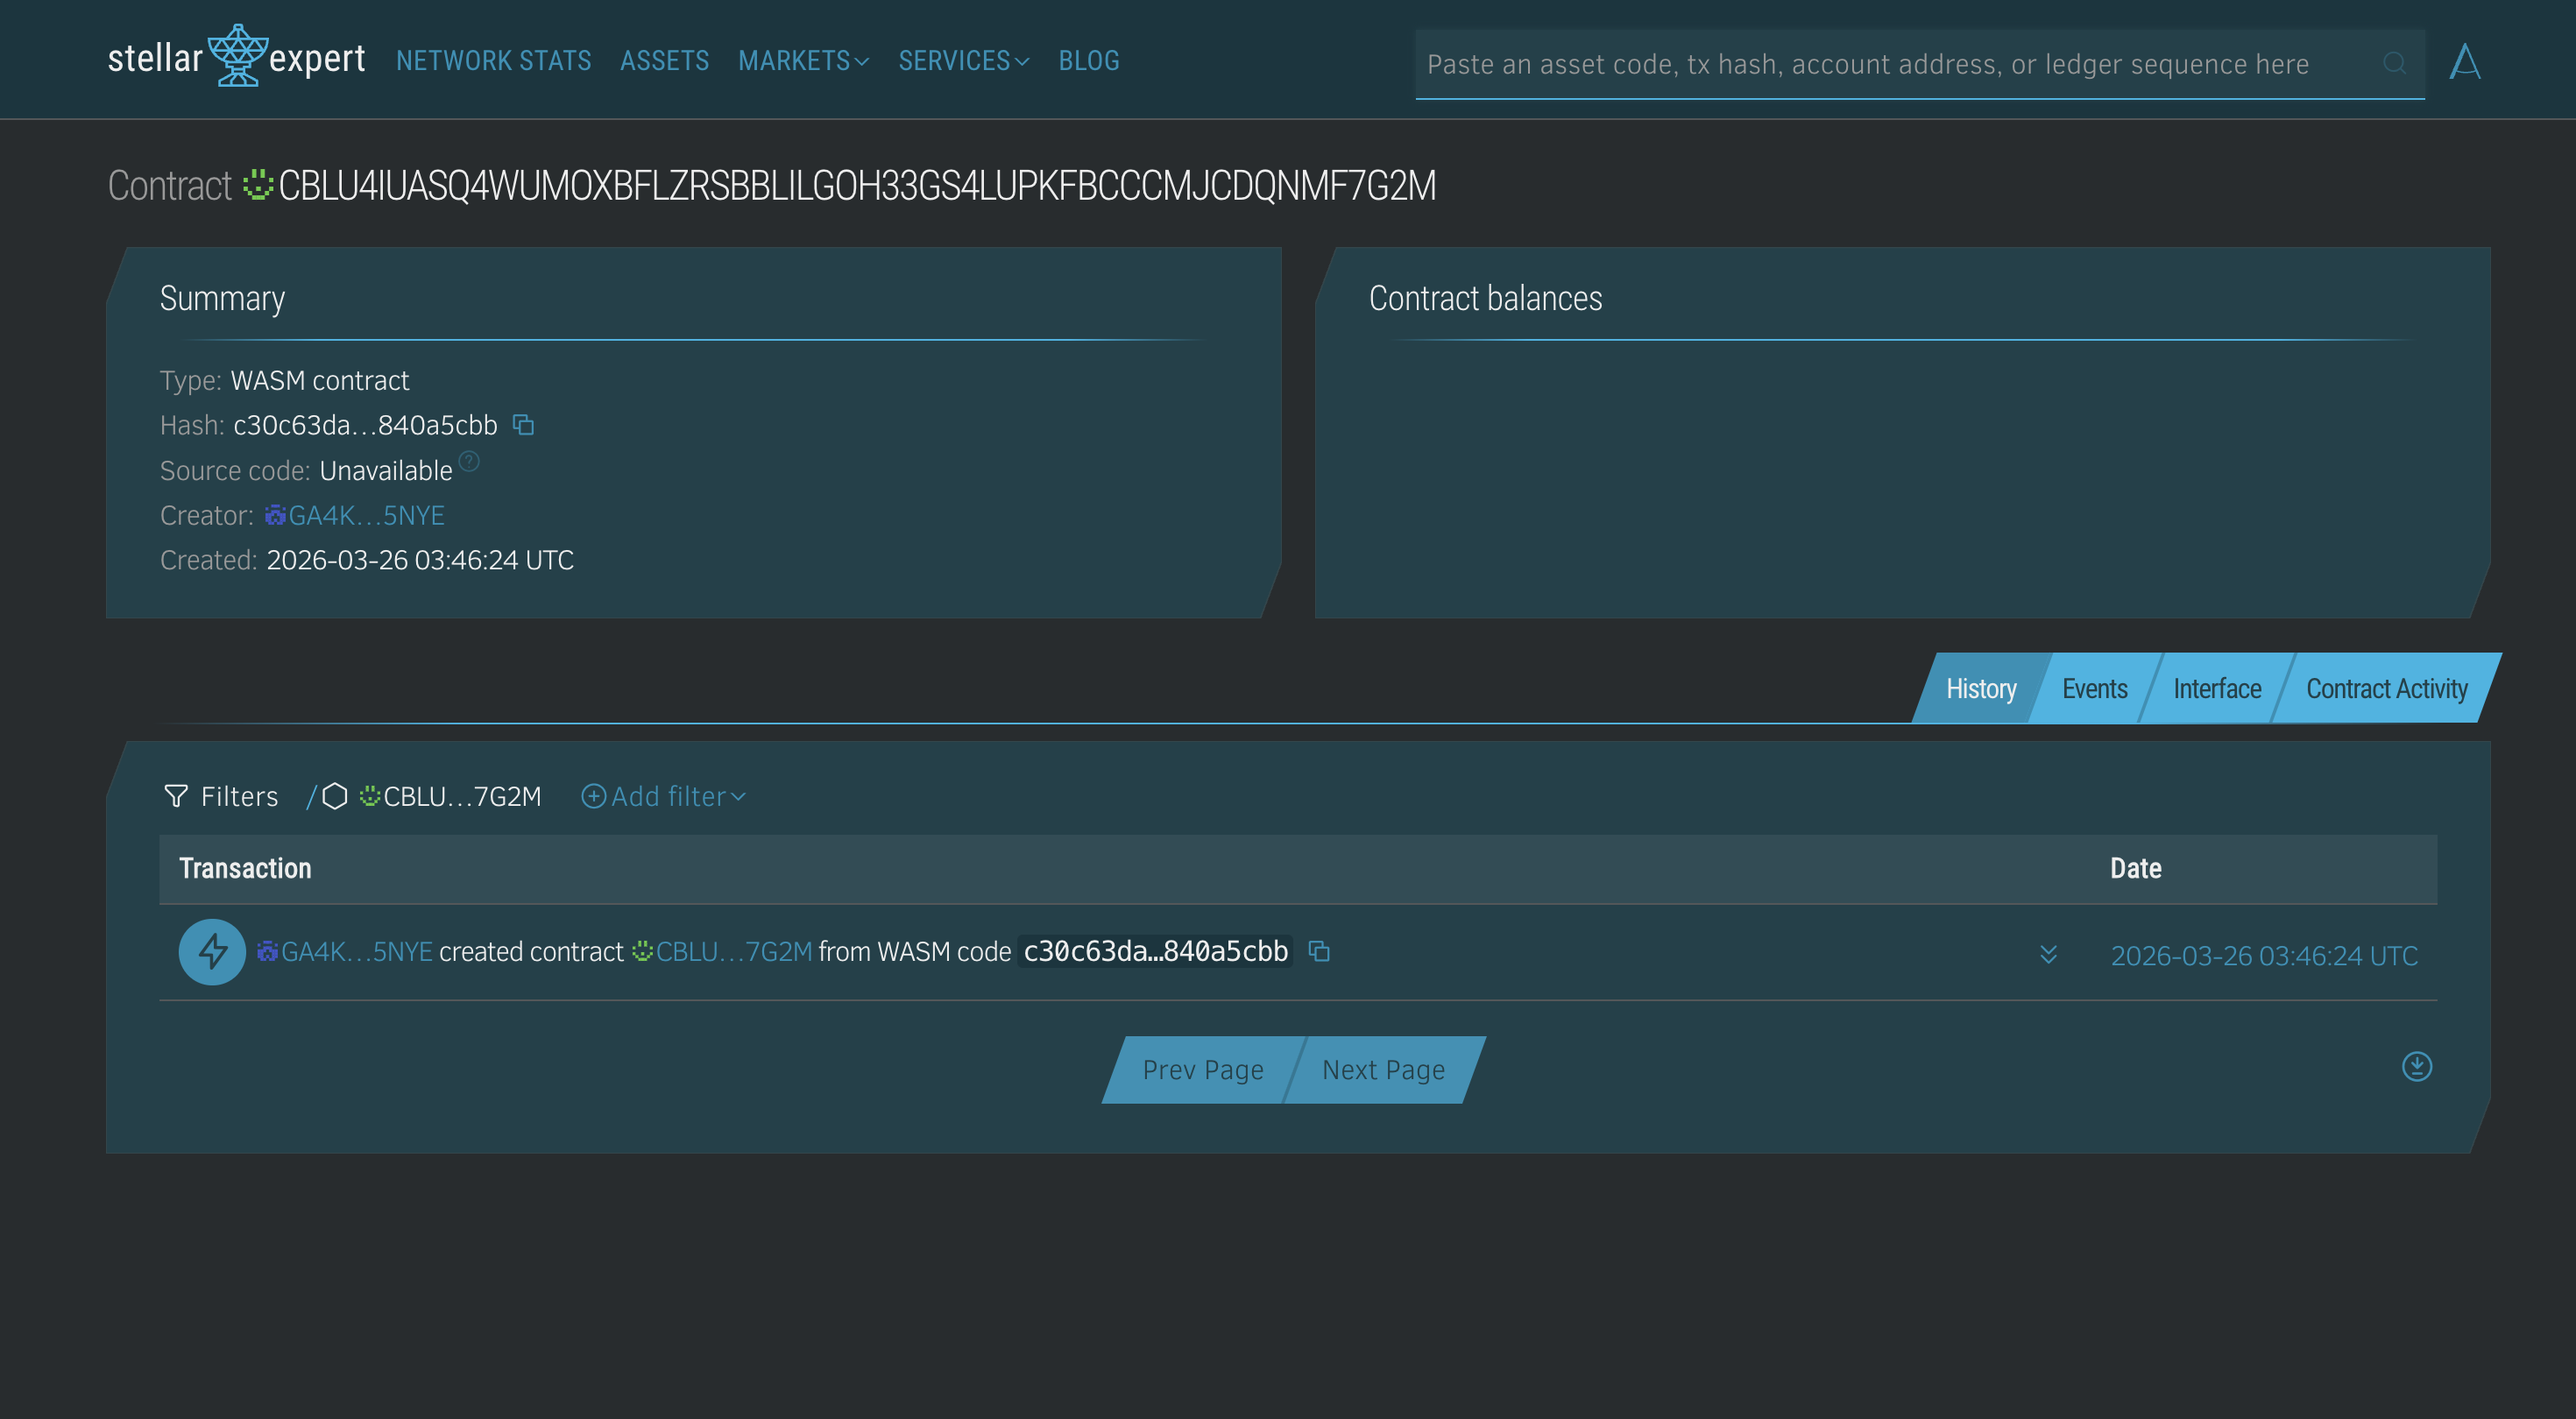
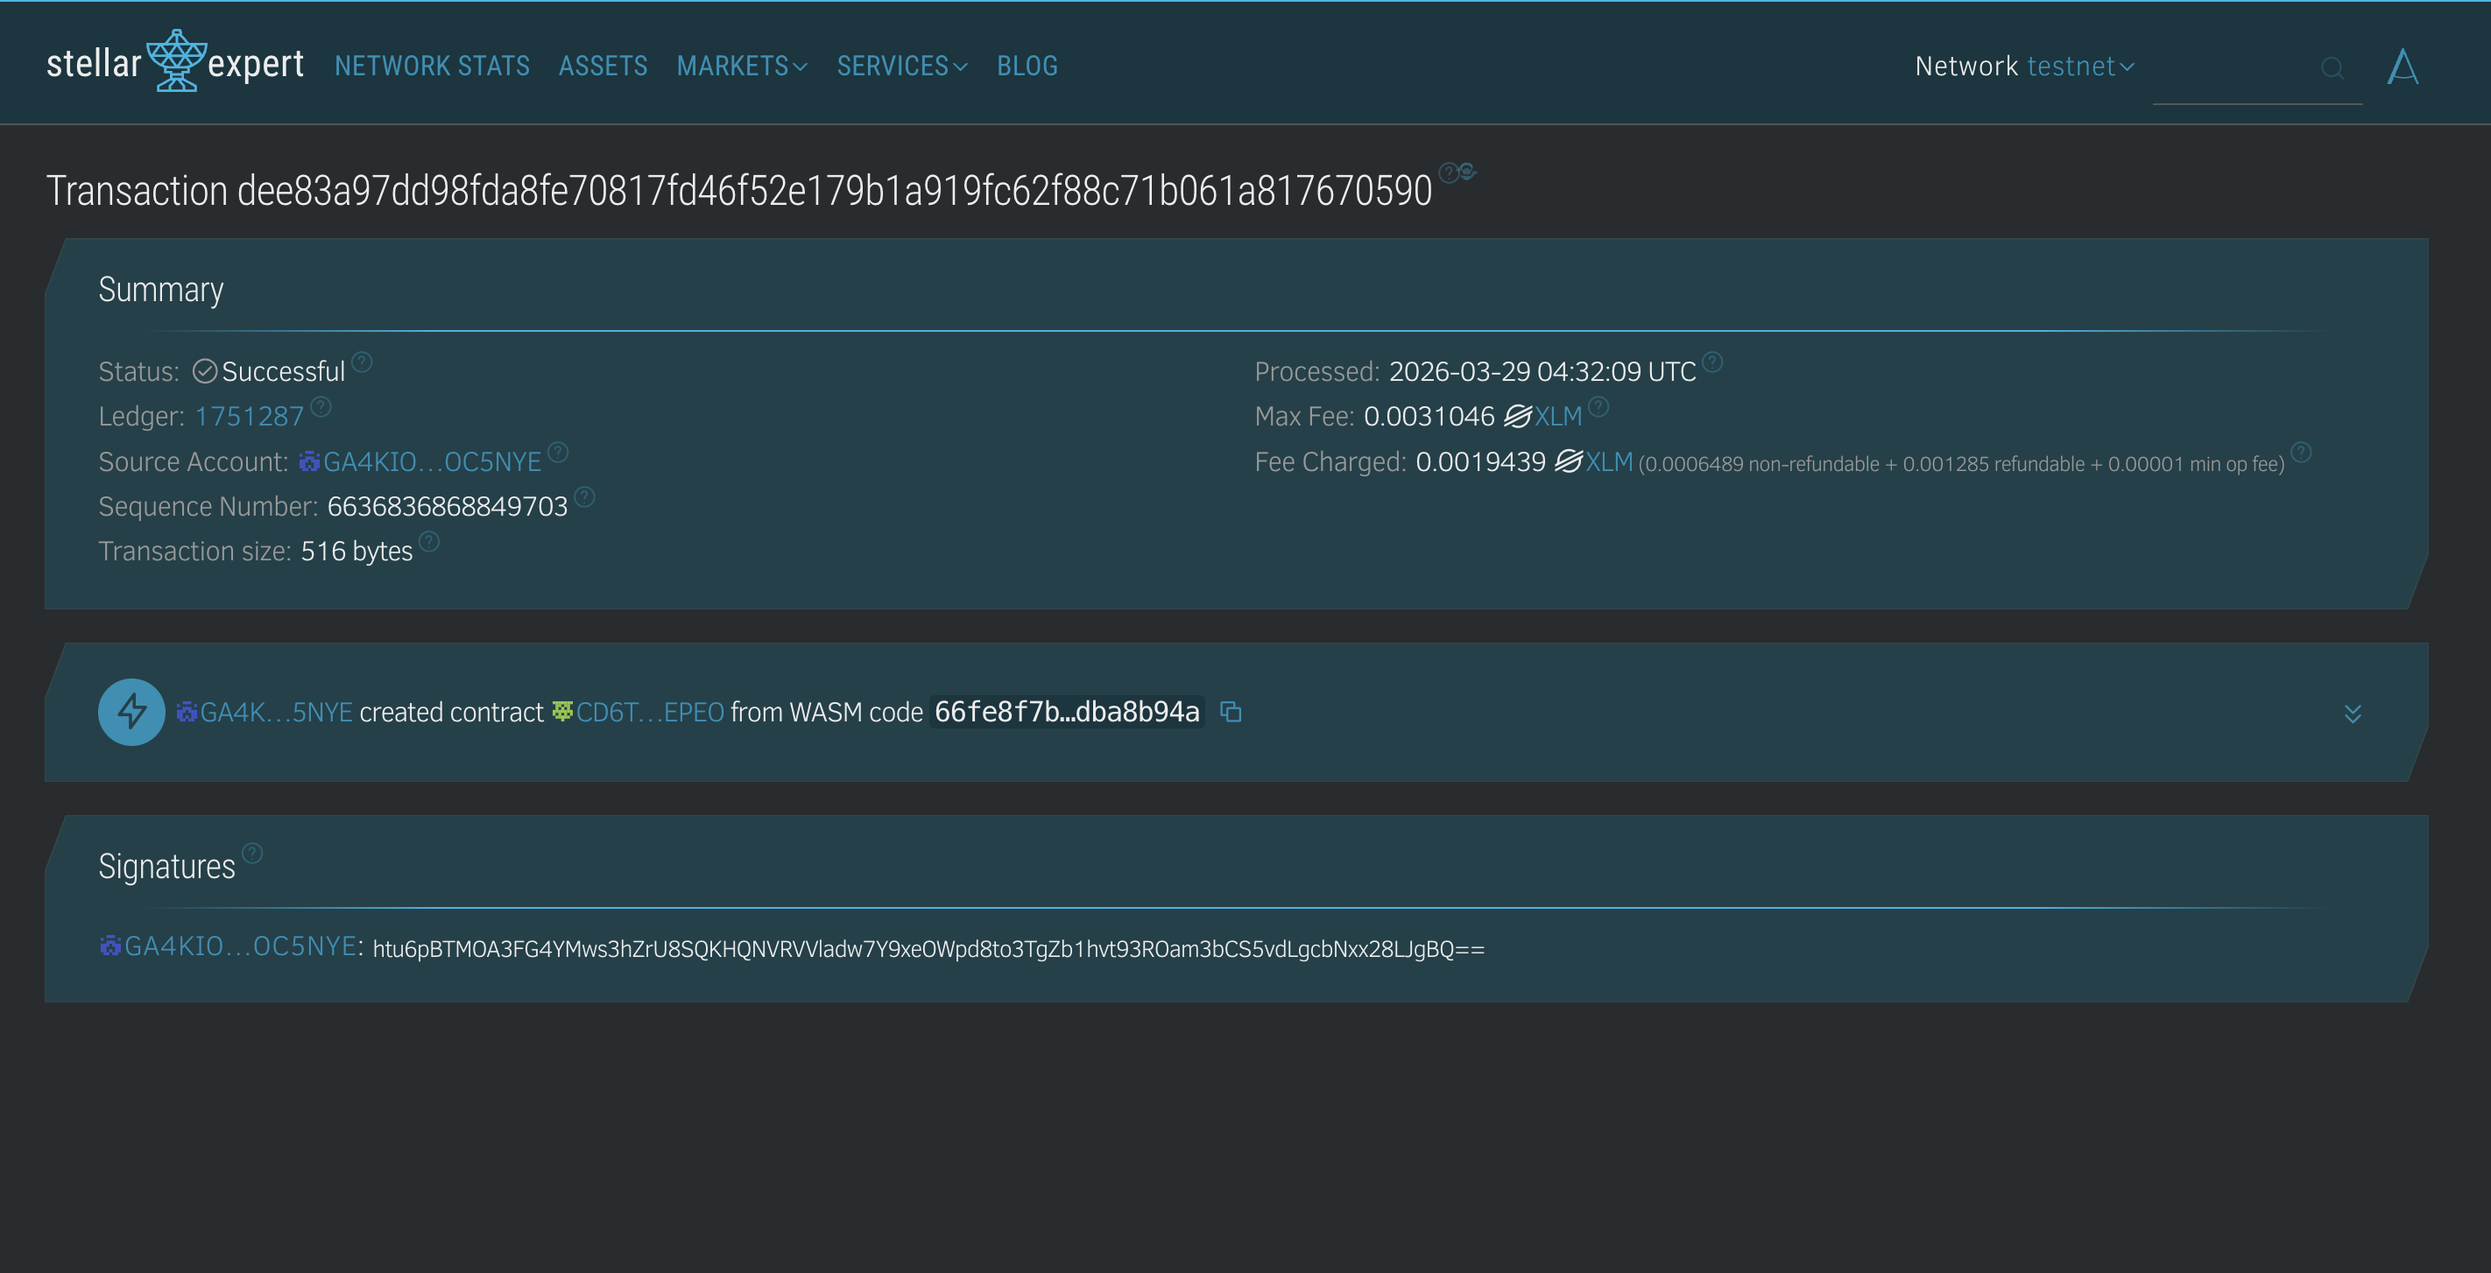
update readme

diff --git a/README.md b/README.md
@@ -13,6 +13,7 @@
 ### 🌟 Project Vision
 
 We believe in a digital world where data is not just static, but dynamic and sovereign. Our vision is to provide a platform for:
+
 - **Episodic Secrecy**: Creating data that reacts to interaction.
 - **Privacy through Mutation**: Protecting content by changing it upon unauthorized or repeated viewing.
 - **On-Chain Dynamism**: Demonstrating the power of Soroban's state-changing capabilities in real-time.
@@ -21,21 +22,22 @@ We believe in a digital world where data is not just static, but dynamic and sov
 
 ### 🚀 Key Features
 
-| Feature | Description |
-| :--- | :--- |
+| Feature              | Description                                                                 |
+| :------------------- | :-------------------------------------------------------------------------- |
 | **Dynamic Mutation** | Content changes automatically based on the number of views (`visit_count`). |
-| **Secure Storage** | Powered by Stellar's Soroban instance storage for permanent availability. |
-| **Privacy First** | Traditional static data is replaced with evolving narratives. |
-| **Lightweight** | Optimized Rust implementation for low-cost transactions. |
+| **Secure Storage**   | Powered by Stellar's Soroban instance storage for permanent availability.   |
+| **Privacy First**    | Traditional static data is replaced with evolving narratives.               |
+| **Lightweight**      | Optimized Rust implementation for low-cost transactions.                    |
 
 ---
 
 ### 🔗 Deployed Smartcontract Details
 
 > [!IMPORTANT]
-> **Contract ID:** `CBLU4IUASQ4WUMOXBFLZRSBBLILGOH33GS4LUPKFBCCCMJCDQNMF7G2M`
+> **Contract ID:** `CD6TZ5S7U4KAHX54XGOLIGO53AYH63TLAS43CDAONM4BCWSFGJTGEPEO`
 
 #### Registry Screenshot
+
 ![Explorer Screenshot](screenshot.png)
 
 ---
